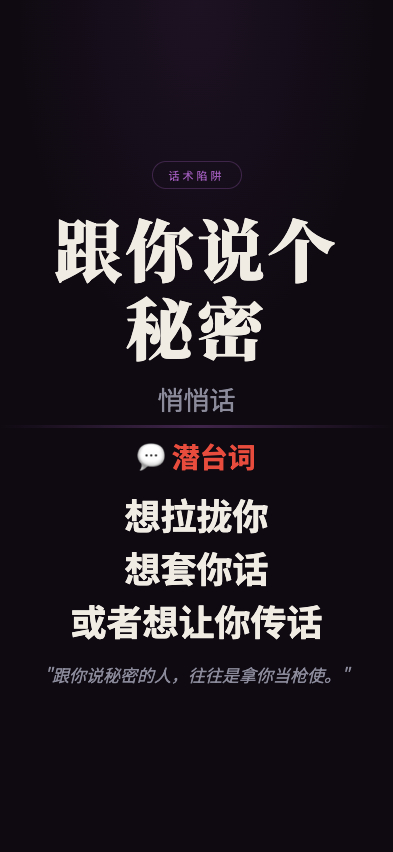
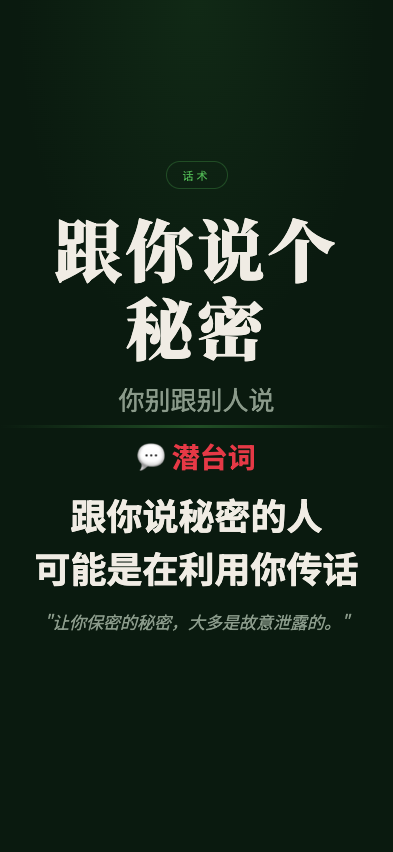
feat: 职场生存法则 screenshot - gennishuogemimi

Changed region(s): [[0.0916, 0.5798, 0.916, 0.8239], [0.1832, 0.4577, 0.8244, 0.5188], [0.3969, 0.1831, 0.5802, 0.2441]]

diff --git a/wuliao-tools/tools/biz-speak/scenes/gennishuogemimi.html b/wuliao-tools/tools/biz-speak/scenes/gennishuogemimi.html
@@ -7,11 +7,11 @@
 <link href="https://fonts.googleapis.com/css2?family=Noto+Serif+SC:wght@400;700;900&family=Noto+Sans+SC:wght@300;400;700&display=swap" rel="stylesheet">
 <style>
   :root {
-    --bg: #0f0a12;
+    --bg: #0a1a0f;
     --text: #f0ece4;
-    --text-dim: #8a8a9a;
-    --gold: #9b59b6;
-    --red: #e74c3c;
+    --text-dim: #8a9a8a;
+    --gold: #4caf50;
+    --red: #e63946;
   }
   * { margin:0; padding:0; box-sizing:border-box; }
   html, body { width:100%; height:100%; overflow:hidden; }
@@ -24,11 +24,11 @@
   }
   body::before {
     content:''; position:absolute; top:0; left:0; right:0; height:45%;
-    background:radial-gradient(ellipse at 50% 0%, rgba(155,89,182,0.1) 0%, transparent 65%);
+    background:radial-gradient(ellipse at 50% 0%, rgba(76,175,80,0.1) 0%, transparent 65%);
     pointer-events:none; z-index:0;
   }
   .top { flex:1; display:flex; flex-direction:column; align-items:center; justify-content:flex-end; padding:4px 28px 8px; position:relative; z-index:1; }
-  .tag { font-size:11px; letter-spacing:3px; color:var(--gold); border:1px solid rgba(155,89,182,0.3); padding:5px 16px; border-radius:50px; margin-bottom:20px; }
+  .tag { font-size:11px; letter-spacing:3px; color:var(--gold); border:1px solid rgba(76,175,80,0.3); padding:5px 16px; border-radius:50px; margin-bottom:20px; }
   .main-title { font-family:'Noto Serif SC'; font-size:68px; font-weight:900; text-align:center; line-height:1.15; letter-spacing:3px; min-width:0; overflow-wrap:break-word; max-width:92%; }
   .sub-title { font-size:26px; color:var(--text-dim); text-align:center; margin-top:14px; }
   .divider { width:100%; height:3px; background:linear-gradient(90deg,transparent,var(--gold),transparent); opacity:0.35; flex-shrink:0; position:relative; z-index:1; }
@@ -41,19 +41,18 @@
 </head>
 <body>
   <div class="top">
-    <div class="tag">话术陷阱</div>
+    <div class="tag">话术</div>
     <div class="main-title">跟你说个秘密</div>
-    <div class="sub-title">悄悄话</div>
+    <div class="sub-title">你别跟别人说</div>
   </div>
   <div class="divider"></div>
   <div class="bottom">
     <div class="truth-label">💬 潜台词</div>
     <div class="truth-lines">
-      <div class="truth-line">想拉拢你</div>
-      <div class="truth-line">想套你话</div>
-      <div class="truth-line">或者想让你传话</div>
+      <div class="truth-line">跟你说秘密的人</div>
+      <div class="truth-line">可能是在利用你传话</div>
     </div>
-    <div class="quote">"跟你说秘密的人，往往是拿你当枪使。"</div>
+    <div class="quote">"让你保密的秘密，大多是故意泄露的。"</div>
   </div>
 </body>
 </html>
